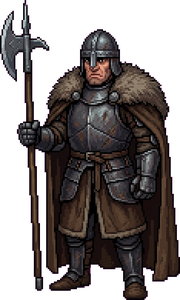
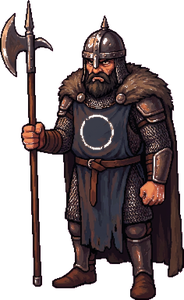
Deel 2: MUISSTIL sleutel-minigame, nieuwe gevaarlijke wachter met baard, groter Finn, mooi onzichtbaarheids-teken
De kerker — nieuw slotstuk in 3 stappen:
1. Kerkerslot (vader fluistert de tekens) opent nu alleen de GRENDELS (boltsOpen)
2. NIEUW: 'Muisstil — pak de sleutel': de celsleutel glinstert op de wachttafel;
   houd vast om hem naar je toe te trekken, maar dat schuurt! Alleen als de wachter
   NEURIET (♪) hoort hij niets; stopt het deuntje -> loslaten, anders schiet de
   geluidsmeter vol en schuift de sleutel terug (onzichtbaar = onhoorbaar is hij niet!)
3. Gebruik de ijzeren celsleutel op de deur -> vader vrij -> einde Deel 2

Engine: nieuw keyPuzzle-type op het dial-scherm (houd-vast-mechaniek met pointer-events,
neurie-cyclus, geluidsmeter, sleutel die over de tafel glijdt), dispatch + quests
(q_key/q_cellopen) + sleutel-glinstering op de tafel (bookSparkle-fx hergebruikt).

Verder:
- Nieuwe wachter-sprite: zelfde pixel-stijl als de poortwachter-referentie maar
  gevaarlijker, met volle donkere baard (Higgsfield; kleurafstand-chroma-fix)
- Finn groter in de kerker (depth 1.00/1.40)
- Nieuw onzichtbaarheidsspreuk-teken: donker zegel met half-vervagende kap-figuur
  die in sparkles oplost (item-invisspell.png) + item-cellkey icoon
- Cache deel2 v146

diff --git a/games/ravenholt-deel2/js/data.js b/games/ravenholt-deel2/js/data.js
@@ -14,7 +14,7 @@ const GAME = {
   title:      { nl: 'Fluisteringen van Ravenholt — Deel 2', en: 'Whispers of Ravenholt — Part 2' },
   titleLines: { nl: ['Fluisteringen', 'van Ravenholt', '· Deel 2 ·'], en: ['Whispers of', 'Ravenholt', '· Part 2 ·'] },
   startScene: 'courtyard',
-  assetVer: '145',
+  assetVer: '146',
 
   /* Finn — vaste figuur: roodharige jongen, blauwe kapmantel, leren tas, houten staf.
      idle = hero, lopen = 4-frame loopsheet (heroWalkSheet), zwaaien = heroWave.
@@ -136,6 +136,8 @@ const GAME = {
     q_altar:    { nl: 'Je zag het hemelzegel! Draai de drie schijven van het sterren-altaar precies zoals op het zegel (zon ☉ bovenaan) en trek aan de hendel — dan opent de geheime deur én wacht de onzichtbaarheidsspreuk', en: 'You saw the celestial seal! Turn the three discs of the star altar exactly as on the seal (sun ☉ at the top) and pull the lever — the secret door opens and the invisibility spell awaits' },
     q_dungeon:  { nl: 'De geheime deur staat open! Daal de trap af naar de kerker. Een wachter verspert de weg naar de gevangene — tik de onzichtbaarheidsspreuk aan om ongezien langs hem te sluipen', en: 'The secret door is open! Descend the stair to the dungeon. A guard blocks the way to the prisoner — tap the invisibility spell to slip past him unseen' },
     q_freefather:{ nl: 'Je bent onzichtbaar langs de wachter! Praat met de gevangene bij de tralies — hij fluistert de volgorde van het kerkerslot: zon, maan, ster... en het teken van zijn staf', en: 'You slipped past the guard unseen! Talk to the prisoner at the bars — he whispers the order of the dungeon lock: sun, moon, star... and the sign of his staff' },
+    q_key:      { nl: 'De grendels zijn open! Pak nu MUISSTIL de sleutel van de wachttafel: trek alleen terwijl de wachter neuriet (♪) — hij kan je nog steeds horen', en: 'The bolts are open! Now take the key from the guard’s table SILENTLY: pull only while the guard hums (♪) — he can still hear you' },
+    q_cellopen: { nl: 'Je hebt de celsleutel! Gebruik hem op de celdeur en bevrijd je vader', en: 'You have the cell key! Use it on the cell door and free your father' },
     q_done:     { nl: 'De prinses herkende het wapen van het medaillon... (wordt vervolgd in Deel 2)', en: 'The princess recognised the medallion’s crest... (to be continued in Part 2)' },
     q_fountain: { nl: 'Onderzoek waarom de fontein leegloopt', en: 'Investigate why the fountain is running dry' },
     q_mill:     { nl: 'Bekijk de oude molen aan de rand van het plein', en: 'Inspect the old mill at the edge of the square' },
@@ -168,6 +170,8 @@ const GAME = {
              look: { nl: 'Een fijne gouden ketting met een blauwe edelsteen, opgevist uit de oude put. Hij hoort bij de prinses — het was van haar moeder.', en: 'A fine gold necklace with a blue gem, fished from the old well. It belongs to the princess — it was her mother’s.' } },
     key: { name: { nl: 'Sleutel van de Geheime Poort', en: 'Secret Gate Key' }, icon: '🗝', img: 'assets/art/item-key.png', sparkle: true,
              look: { nl: 'Een zware, oude sleutel die je van de prinses kreeg. Hij past op het slot onder de leeuwenkop van de fontein — de geheime poort.', en: 'A heavy old key the princess gave you. It fits the lock beneath the fountain’s lion head — the secret gate.' } },
+    cellkey: { name: { nl: 'IJzeren Celsleutel', en: 'Iron Cell Key' }, icon: '🗝', img: 'assets/art/item-cellkey.png', sparkle: true,
+             look: { nl: 'De zware ijzeren sleutel van de wachter — muisstil van de tafel gegrist. Hij past op het sleutelslot van de celdeur.', en: 'The guard’s heavy iron key — snatched from the table without a sound. It fits the keyhole of the cell door.' } },
     charcoal: { name: { nl: 'Houtskool', en: 'Charcoal' }, icon: '⬛', img: 'assets/art/item-coal.png',
              look: { nl: 'Een handvol zwarte houtskool uit de vuurkorf naast het smidsbeeld in de slottuin. Precies wat een smid nodig heeft om zijn vuur weer aan te wakkeren.', en: 'A handful of black charcoal from the fire basket beside the smith statue in the castle garden. Just what a smith needs to fire up his forge again.' } },
     nut: { name: { nl: 'Pindanoot', en: 'Peanut' }, icon: '🥜', img: 'assets/art/item-nut.png',
@@ -255,7 +259,9 @@ const GAME = {
   ],
 
   questRules: [
-    { when: { flag: 'guardPassed', notFlag: 'fatherFreed' },             quest: 'q_freefather' },    // onzichtbaar langs de wachter -> open het kerkerslot bij de cel
+    { when: { has: 'cellkey', notFlag: 'fatherFreed' },                  quest: 'q_cellopen' },      // sleutel binnen -> open de celdeur
+    { when: { flag: 'boltsOpen', notFlag: 'gotCellKey' },                quest: 'q_key' },           // grendels open -> pak muisstil de sleutel van de tafel
+    { when: { flag: 'guardPassed', notFlag: 'boltsOpen' },               quest: 'q_freefather' },    // onzichtbaar langs de wachter -> open het kerkerslot bij de cel
     { when: { flag: 'altarSolved', notFlag: 'fatherFreed' },             quest: 'q_dungeon' },       // geheime deur open -> daal af in de kerker en word onzichtbaar langs de wachter
     { when: { flag: 'sawSigns', notFlag: 'altarSolved' },                quest: 'q_altar' },         // zegel gezien -> draai de schijven van het altaar + hendel
     { when: { flag: 'eclipseActive', notFlag: 'sawSigns' },              quest: 'q_readbook' },      // eclips actief -> bekijk het hemelzegel boven het boek
@@ -976,7 +982,7 @@ const GAME = {
       },
       playerStart: { x: 100, y: 246 },
       spawnFrom: { library: { x: 100, y: 246 } },
-      depth: { far: 250, near: 314, sFar: 0.90, sNear: 1.22 },
+      depth: { far: 250, near: 314, sFar: 1.00, sNear: 1.40 },   // Finn wat groter in de kerker
       walkable: [
         { x: 36, y: 246, w: 444, h: 66 }                 // de natte kerkervloer, van de trap links tot vlak voor de cel
       ],
@@ -986,7 +992,9 @@ const GAME = {
         { x: 288, y: 236, w: 68, h: 76, notFlag: 'guardPassed' }   // de wachter verspert de doorgang — tot je onzichtbaar bent (dan loop je er dwars langs)
       ],
       overlays: [],
-      fx: {},
+      fx: {
+        bookSparkle: { x: 230, y: 206, r: 13, doneFlag: 'gotCellKey' }   // de sleutel glinstert op de wachttafel tot je hem hebt
+      },
       npcs: [
         { id: 'guard', sprite: 'dungeonGuard', x: 322, y: 246, scale: 1.22, flip: true, sway: 0.015, filter: 'brightness(0.82) saturate(0.96)' }   // de wachter vóór de cel, kijkt naar RECHTS; hij blijft gewoon staan — onzichtbaar ziet hij je alleen niet
         // Finn's vader zit ín de achtergrond, écht achter de tralies (gevangenis-ravenholt-1)
@@ -1007,7 +1015,7 @@ const GAME = {
           rect: { x: 284, y: 118, w: 88, h: 132 },
           walkTo: { x: 250, y: 262 },
           look: (state) => state.flags.guardPassed
-            ? { nl: 'De wachter tuurt met gefronste wenkbrauwen de kerker rond — maar jou ziet hij niet. Sluip snel naar de cel!', en: 'The guard peers around the dungeon with a frown — but he cannot see you. Slip to the cell, quick!' }
+            ? { nl: 'De wachter tuurt met gefronste wenkbrauwen de kerker rond — jou ziet hij niet. Maar pas op: HOREN kan hij je nog wél... Maak geen geluid.', en: 'The guard peers around the dungeon with a frown — he cannot see you. But beware: he can still HEAR you... Make no sound.' }
             : { nl: 'Een kolossale wachter met een hellebaard verspert de weg naar de cel. “Niemand komt bij de gevangene — niemand die ik zíe, tenminste.” Zolang hij je ziet, kom je er nooit langs... Kon je maar onzichtbaar worden. (Tik de onzichtbaarheidsspreuk aan in je tas.)', en: 'A colossal guard with a halberd blocks the way to the cell. “No one reaches the prisoner — no one I can SEE, at least.” While he can see you, you will never get past... If only you could turn invisible. (Tap the invisibility spell in your bag.)' },
           castWith: {
             item: 'invisspell',
@@ -1017,13 +1025,45 @@ const GAME = {
           }
         },
         {
+          id: 'keyTable',
+          name: { nl: 'De Sleutel op de Tafel', en: 'The Key on the Table' },
+          rect: { x: 178, y: 186, w: 104, h: 48 },
+          walkTo: { x: 230, y: 258 },
+          look: (state) => state.flags.gotCellKey
+            ? { nl: 'De tafel is leeg — de ijzeren celsleutel zit veilig in je tas.', en: 'The table is bare — the iron cell key sits safely in your bag.' }
+            : { nl: 'Op de wachttafel, naast de kaars en de fles, glinstert een zware ijzeren sleutel. Dé sleutel van de cel! Maar het hout kraakt bij elk geluidje...', en: 'On the guard’s table, beside the candle and the bottle, gleams a heavy iron key. THE key to the cell! But the wood creaks at every little sound...' },
+          keyPuzzle: {
+            requiresFlag: 'guardPassed',
+            blockedText: { nl: 'De wachter staat er met zijn neus bovenop — zolang hij je kan zien, kun je de sleutel onmogelijk ongemerkt pakken. Kon je maar onzichtbaar worden...', en: 'The guard stands right over it — while he can see you, you could never take the key unnoticed. If only you could turn invisible...' },
+            title: { nl: 'Muisstil — pak de sleutel', en: 'Silent as a Mouse — take the key' },
+            hint: { nl: 'HOUD de knop (of het beeld) VAST om de sleutel langzaam naar je toe te trekken — dat schuurt over het hout! Trek alléén terwijl de wachter NEURIET (♪). Stopt het deuntje? LAAT LOS, anders schiet de geluidsmeter vol!', en: 'HOLD the button (or the picture) to slowly pull the key toward you — it scrapes on the wood! Pull only while the guard is HUMMING (♪). When the tune stops, LET GO, or the noise meter fills up!' },
+            setFlag: 'gotCellKey',
+            give: 'cellkey',
+            failText: { nl: '“Wat was dat?!” De wachter draait met een ruk zijn hoofd — je laat de sleutel los en houdt je muisstil. De sleutel schuift een stuk terug...', en: '“What was that?!” The guard snaps his head around — you release the key and freeze. The key slides back a way...' },
+            solvedText: { nl: 'De sleutel glijdt geluidloos over de tafelrand, recht in je onzichtbare hand. De wachter neuriet vrolijk verder — hij heeft níets gemerkt. Nu de celdeur!', en: 'The key slides soundlessly over the table edge, straight into your invisible hand. The guard hums merrily on — he noticed nothing. Now for the cell door!' },
+            doneText: { nl: 'De ijzeren celsleutel zit al in je tas.', en: 'The iron cell key is already in your bag.' }
+          }
+        },
+        {
           id: 'father',
           name: { nl: 'De Gevangene', en: 'The Prisoner' },
           rect: { x: 408, y: 110, w: 100, h: 130 },
           walkTo: { x: 408, y: 268 },
           look: (state) => state.flags.fatherFreed
             ? { nl: 'De celdeur staat open. Je vader houdt je hand stevig vast — jullie zijn weer samen.', en: 'The cell door stands open. Your father holds your hand tight — you are together again.' }
+            : state.flags.boltsOpen
+            ? { nl: 'De grendels staan open, maar het sleutelslot houdt de deur dicht. Vader knikt naar de wachttafel: “De sleutel, jongen — muisstil...”', en: 'The bolts stand open, but the keyhole holds the door shut. Father nods at the guard’s table: “The key, my boy — quiet as a mouse...”' }
             : { nl: 'Onzichtbaar sluip je naar de tralies. De magere man kijkt op — vermoeide ogen, rood-bruin haar net als dat van jou. “...Finn?” fluistert hij. “Mijn jongen! Snel — het slot heeft vier tekens. Luister goed: éérst de ZON... dan de MAAN... dan de STER... en als laatste het teken van mijn oude staf: Ψ.”', en: 'Invisible, you creep to the bars. The thin man looks up — tired eyes, red-brown hair just like yours. “...Finn?” he whispers. “My boy! Quick — the lock has four signs. Listen well: FIRST the SUN... then the MOON... then the STAR... and last the sign of my old staff: Ψ.”' },
+          use: {
+            cellkey: {
+              requiresFlag: 'boltsOpen',
+              requiresText: { nl: 'Je houdt de sleutel al klaar, maar vier zware grendels houden de deur nog dicht. Eerst de vier tekens van het kerkerslot — vraag het je vader.', en: 'You hold the key ready, but four heavy bolts still shut the door. First the four signs of the dungeon lock — ask your father.' },
+              consume: 'cellkey',
+              setFlag: 'fatherFreed',
+              win: true,
+              text: { nl: 'De ijzeren sleutel glijdt in het slot... KLIK. De zware celdeur zwaait piepend open en je vader stapt naar buiten. Hij tilt je op in een omhelzing die alles goedmaakt. “Mijn jongen... je hebt me gevonden én bevrijd.” Samen sluipen jullie muisstil langs de neuriënde wachter, de trap op, richting het daglicht... (wordt vervolgd in Deel 3)', en: 'The iron key slides into the lock... CLICK. The heavy cell door creaks open and your father steps out. He lifts you into a hug that makes up for everything. “My boy... you found me AND freed me.” Together you slip silently past the humming guard, up the stairs, toward the daylight... (to be continued in Part 3)' }
+            }
+          },
           symbolPuzzle: {
             requiresFlag: 'guardPassed',
             blockedText: { nl: 'Je wilt naar de tralies rennen, maar de reusachtige wachter stapt meteen vóór de cel. “Terug jij!” Zolang hij je ziet, kom je hier niet langs... Kon je maar onzichtbaar worden. (Tik de onzichtbaarheidsspreuk aan in je tas.)', en: 'You start toward the bars, but the huge guard instantly steps in front of the cell. “Back, you!” While he can see you, there is no getting past... If only you could turn invisible. (Tap the invisibility spell in your bag.)' },
@@ -1038,10 +1078,9 @@ const GAME = {
             ],
             sequence: ['sun', 'moon', 'star', 'psi'],
             resetText: { nl: 'Het slot klikt boos en de grendels schieten terug. Verkeerde volgorde — luister naar vader: zon, maan, ster, en dan Ψ.', en: 'The lock clicks angrily and the bolts snap back. Wrong order — listen to father: sun, moon, star, then Ψ.' },
-            setFlag: 'fatherFreed',
-            win: true,
-            solvedText: { nl: 'KLIK — KLIK — KLIK — KLIK! De vier grendels schuiven open en de zware celdeur zwaait piepend los. Je vader stapt naar buiten en tilt je op in een omhelzing die alles goedmaakt. “Mijn jongen... je hebt me gevonden én bevrijd.” Samen sluipen jullie langs de slapende wachter, de trap op, richting het daglicht... (wordt vervolgd in Deel 3)', en: 'CLICK — CLICK — CLICK — CLICK! The four bolts slide open and the heavy cell door creaks loose. Your father steps out and lifts you into a hug that makes up for everything. “My boy... you found me AND freed me.” Together you slip past the drowsy guard, up the stairs, toward the daylight... (to be continued in Part 3)' },
-            doneText: { nl: 'De cel staat open; jullie zijn herenigd.', en: 'The cell stands open; you are reunited.' }
+            setFlag: 'boltsOpen',
+            solvedText: { nl: 'KLIK — KLIK — KLIK — KLIK! De vier grendels schuiven open... maar de deur geeft nog niet mee. Onderaan zit een SLEUTELSLOT. Vader fluistert: “De wachter legt zijn sleutel altijd op de tafel — maar pas op, jongen: onzichtbaar of niet, hij kan je nog steeds HOREN...”', en: 'CLICK — CLICK — CLICK — CLICK! The four bolts slide open... but the door will not give yet. At the bottom sits a KEYHOLE. Father whispers: “The guard always leaves his key on the table — but beware, my boy: invisible or not, he can still HEAR you...”' },
+            doneText: { nl: 'De grendels staan open; alleen het sleutelslot houdt de deur nog dicht. De sleutel ligt op de wachttafel.', en: 'The bolts stand open; only the keyhole still holds the door. The key lies on the guard’s table.' }
           }
         }
       ]

diff --git a/games/ravenholt-deel2/js/engine.js b/games/ravenholt-deel2/js/engine.js
@@ -4016,7 +4016,12 @@
     sfx('tap');
     if (!wAnim) wLoop();
   }
-  function dialClose() { if (elDial) elDial.hidden = true; dialHs = null; if (wAnim) { cancelAnimationFrame(wAnim); wAnim = null; } }
+  function dialClose() {
+    if (elDial) elDial.hidden = true;
+    dialHs = null;
+    if (wAnim) { cancelAnimationFrame(wAnim); wAnim = null; }
+    if (typeof keyStop === 'function') keyStop();      // ook de sleutel-puzzel netjes sluiten
+  }
   function winchLower() {
     if (!dialHs || wSolved) return;
     const pz = dialHs.dialPuzzle, DEP = pz.depth || W_DEPTH;
@@ -4212,6 +4217,133 @@
     if (dr) dr.addEventListener('click', winchLower);
     if (dx) dx.addEventListener('click', dialClose);
     elDial.addEventListener('click', (e) => { if (e.target === elDial) dialClose(); });
+  }
+
+  /* ---------- MUISSTIL: pak de sleutel zonder geluid te maken ----------
+     De sleutel ligt op de wachttafel. Houd de knop (of het beeld) ingedrukt om hem
+     langzaam naar je toe te trekken — maar dat schuurt over het hout! Alleen als de
+     wachter NEURIET (♪) hoort hij het niet. Stopt het deuntje: loslaten, anders
+     schiet de geluidsmeter vol en schuift de sleutel terug. */
+  let keyHs = null, keyProg = 0, keyNoise = 0, keyHold = false, keyAnim = null, keyLastT = 0, keyFailT = 0, keySolvedK = false;
+  function keyHumOn(now) {                             // onregelmatig neuriën: twee sinussen door elkaar
+    return (Math.sin(now / 900) + Math.sin(now / 1370)) > 0.25;
+  }
+  function openKeyPuzzle(hs) {
+    const pz = hs.keyPuzzle;
+    if (state.flags[pz.setFlag]) { say(pz.doneText || lookText(hs), hsSpeaker(hs)); return; }
+    keyHs = hs; keyProg = 0; keyNoise = 0; keyHold = false; keySolvedK = false; keyLastT = performance.now(); keyFailT = 0;
+    if (elDialTitle)  elDialTitle.textContent  = L(pz.title);
+    if (elDialHint)   elDialHint.textContent   = L(pz.hint);
+    if (elDialStatus) elDialStatus.textContent = '';
+    const bl = document.getElementById('dial-left'), br = document.getElementById('dial-right');
+    if (bl) { bl.hidden = false; bl.textContent = lang === 'nl' ? '🤫 Trek voorzichtig (houd vast)' : '🤫 Pull gently (hold)'; bl.classList.remove('dial-go', 'dial-stop'); }
+    if (br) br.hidden = true;
+    if (elDial) elDial.hidden = false;
+    sfx('tap');
+    if (!keyAnim) keyLoop();
+  }
+  function keyStop() { keyHs = null; keyHold = false; if (keyAnim) { cancelAnimationFrame(keyAnim); keyAnim = null; } const br = document.getElementById('dial-right'); if (br) br.hidden = false; }
+  function keyLoop() {
+    if (!keyHs || !elDial || elDial.hidden) { keyAnim = null; return; }
+    const now = performance.now();
+    const dt = Math.min(0.05, (now - keyLastT) / 1000); keyLastT = now;
+    const pz = keyHs.keyPuzzle;
+    if (!keySolvedK) {
+      const hum = keyHumOn(now);
+      if (keyHold) {
+        keyProg = Math.min(100, keyProg + 15 * dt);
+        keyNoise = Math.min(100, keyNoise + (hum ? 5 : 46) * dt);
+      } else {
+        keyNoise = Math.max(0, keyNoise - 26 * dt);
+      }
+      if (keyNoise >= 100) {                           // KRRRTS — de wachter hoort iets!
+        keyFailT = now; keyHold = false;
+        keyProg = Math.max(0, keyProg - 40); keyNoise = 45;
+        sfx('error');
+        if (elDialStatus) elDialStatus.textContent = pz.failText ? L(pz.failText) : (lang === 'nl' ? '“Wat was dat?!” De wachter draait zijn hoofd — je laat de sleutel los en wacht doodstil...' : '“What was that?!” The guard turns his head — you release the key and freeze...');
+      }
+      if (keyProg >= 100) {                            // de sleutel glijdt geluidloos van de rand in je hand
+        keySolvedK = true;
+        state.flags[pz.setFlag] = true;
+        if (pz.give) addItem(pz.give);
+        sfx('combine');
+        const h = keyHs;
+        if (elDialStatus) elDialStatus.textContent = lang === 'nl' ? 'Hebbes — muisstil!' : 'Got it — silent as a mouse!';
+        setTimeout(() => { dialClose(); if (pz.solvedText) say(pz.solvedText, hsSpeaker(h)); updateQuest(); }, 800);
+      }
+    }
+    drawKeyPuzzle(now);
+    keyAnim = requestAnimationFrame(keyLoop);
+  }
+  function drawKeyPuzzle(now) {
+    if (!dctx || !keyHs) return;
+    const cv = elDialCanvas, x = dctx, W = cv.width, H = cv.height;
+    const hum = keyHumOn(now);
+    x.clearRect(0, 0, W, H);
+    /* donkere kerkermuur + tafelblad */
+    let g = x.createLinearGradient(0, 0, 0, H);
+    g.addColorStop(0, '#171310'); g.addColorStop(1, '#0d0a08');
+    x.fillStyle = g; x.fillRect(0, 0, W, H);
+    /* de neuriënde wachter bovenin */
+    x.textAlign = 'center'; x.textBaseline = 'middle';
+    x.font = '34px Georgia, serif';
+    x.fillText('💂', W / 2, 46);
+    if (hum) {                                        // ♪ = veilig trekken
+      const b = 0.55 + 0.45 * Math.sin(now / 180);
+      x.font = '20px Georgia, serif'; x.fillStyle = 'rgba(150,240,130,' + b.toFixed(2) + ')';
+      x.fillText('♪', W / 2 + 34, 34); x.fillText('♫', W / 2 + 52, 48);
+      x.font = 'bold 13px Georgia, serif'; x.fillStyle = '#bff5ad';
+      x.fillText(lang === 'nl' ? 'hij neuriet — trek nu!' : 'he hums — pull now!', W / 2, 76);
+    } else {
+      x.font = 'bold 13px Georgia, serif'; x.fillStyle = '#ffb3a6';
+      x.fillText(lang === 'nl' ? 'stil... niet bewegen!' : 'quiet... don’t move!', W / 2, 76);
+    }
+    /* het tafelblad met de glijdende sleutel */
+    const ty = H * 0.52;
+    x.fillStyle = '#5a4326'; x.fillRect(24, ty, W - 48, 34);
+    x.fillStyle = '#3c2c18'; x.fillRect(24, ty + 34, W - 48, 8);
+    x.strokeStyle = 'rgba(0,0,0,.4)';
+    for (let i = 0; i < 5; i++) { x.beginPath(); x.moveTo(28, ty + 6 + i * 6); x.lineTo(W - 28, ty + 6 + i * 6); x.stroke(); }
+    const kx = 44 + (W - 118) * (keyProg / 100);
+    x.save();
+    x.translate(kx, ty + 16);
+    x.shadowColor = 'rgba(255,225,140,.85)'; x.shadowBlur = 10;
+    x.font = '26px Georgia, serif'; x.fillStyle = '#ffd36b';
+    x.fillText('🗝', 0, 0);
+    x.restore();
+    /* doel: de rand van de tafel (jouw hand) */
+    x.font = '22px Georgia, serif'; x.fillText('🤚', W - 46, ty + 14);
+    /* geluidsmeter onderin */
+    const mx = 34, mw = W - 68, my = H - 52;
+    x.fillStyle = 'rgba(0,0,0,.55)'; x.fillRect(mx - 2, my - 2, mw + 4, 18);
+    const zones = [[0, 0.62, 'rgba(126,230,110,.25)'], [0.62, 0.85, 'rgba(255,210,110,.25)'], [0.85, 1, 'rgba(255,90,70,.3)']];
+    for (const [a, b2, col] of zones) { x.fillStyle = col; x.fillRect(mx + mw * a, my, mw * (b2 - a), 14); }
+    const nf = keyNoise / 100;
+    x.fillStyle = nf > 0.85 ? '#ff6a55' : nf > 0.62 ? '#ffd36b' : '#8fe07e';
+    x.fillRect(mx, my, mw * nf, 14);
+    x.strokeStyle = '#8a6a3a'; x.lineWidth = 2; x.strokeRect(mx - 2, my - 2, mw + 4, 18);
+    x.font = 'bold 11px Georgia, serif'; x.fillStyle = '#e7cf86';
+    x.fillText(lang === 'nl' ? 'GELUID' : 'NOISE', W / 2, my - 10);
+    /* rode flits bij een misser */
+    const slip = Math.max(0, 1 - (now - keyFailT) / 600);
+    if (keyFailT && slip > 0) { x.fillStyle = 'rgba(255,70,50,' + (0.20 * slip).toFixed(3) + ')'; x.fillRect(0, 0, W, H); }
+  }
+  {
+    const bl = document.getElementById('dial-left');
+    const startHold = (e) => { if (keyHs && !keySolvedK) { keyHold = true; e.preventDefault(); } };
+    const endHold = () => { keyHold = false; };
+    if (bl) {
+      bl.addEventListener('pointerdown', startHold);
+      bl.addEventListener('pointerup', endHold);
+      bl.addEventListener('pointerleave', endHold);
+      bl.addEventListener('pointercancel', endHold);
+    }
+    if (elDialCanvas) {
+      elDialCanvas.addEventListener('pointerdown', startHold);
+      elDialCanvas.addEventListener('pointerup', endHold);
+      elDialCanvas.addEventListener('pointerleave', endHold);
+      elDialCanvas.addEventListener('pointercancel', endHold);
+    }
   }
 
   /* ---------- Sterren-altaar: drie schuifrijen ----------
@@ -5426,6 +5558,15 @@
         return;
       }
       openDiscPuzzle(hs);
+      return;
+    }
+    if (hs.keyPuzzle) {
+      if (hs.keyPuzzle.requiresFlag && !state.flags[hs.keyPuzzle.requiresFlag]) {
+        sfx('error');
+        say(hs.keyPuzzle.blockedText || lookText(hs), hsSpeaker(hs));
+        return;
+      }
+      openKeyPuzzle(hs);
       return;
     }
     if (hs.starPuzzle) {

diff --git a/games/ravenholt-deel2/index.html b/games/ravenholt-deel2/index.html
@@ -26,7 +26,7 @@
   <link rel="preconnect" href="https://fonts.googleapis.com">
   <link rel="preconnect" href="https://fonts.gstatic.com" crossorigin>
   <link href="https://fonts.googleapis.com/css2?family=Crimson+Pro:ital,wght@0,400;0,600;1,400&family=Pixelify+Sans:wght@400;600&display=swap" rel="stylesheet">
-  <link rel="stylesheet" href="css/style.css?v=145">
+  <link rel="stylesheet" href="css/style.css?v=146">
   <script type="application/ld+json">
   {
     "@context": "https://schema.org",
@@ -125,7 +125,7 @@
   </div>
 
   <div id="title-screen" class="overlay title">
-    <img class="title-bg" src="assets/art/title.jpg?v=145" alt="Whispers of Ravenholt" onerror="this.remove()">
+    <img class="title-bg" src="assets/art/title.jpg?v=146" alt="Whispers of Ravenholt" onerror="this.remove()">
     <div class="title-content">
       <h1 id="title-h1" hidden><span>Whispers of</span><br><span>Ravenholt</span></h1>
       <p id="title-sub" class="subtitle" hidden>Een point-and-click avontuur</p>
@@ -146,7 +146,7 @@
 
   <div id="win-screen" class="overlay" hidden>
     <div class="overlay-card panel">
-      <img class="win-banner" src="assets/art/win-deel2.jpg?v=145" alt="" onerror="this.remove()">
+      <img class="win-banner" src="assets/art/win-deel2.jpg?v=146" alt="" onerror="this.remove()">
       <h1 id="win-h1">Deel 1 uitgespeeld!</h1>
       <p class="intro" id="winText"></p>
       <button id="replayBtn" class="gold-btn">Opnieuw spelen</button>
@@ -296,10 +296,10 @@
     </div>
   </div>
 
-  <script src="js/sprites.js?v=145"></script>
-  <script src="js/scenes.js?v=145"></script>
-  <script src="js/data.js?v=145"></script>
-  <script src="js/engine.js?v=145"></script>
+  <script src="js/sprites.js?v=146"></script>
+  <script src="js/scenes.js?v=146"></script>
+  <script src="js/data.js?v=146"></script>
+  <script src="js/engine.js?v=146"></script>
   <script>
     if ('serviceWorker' in navigator) {
       window.addEventListener('load', () => {

diff --git a/games/ravenholt-deel2/sw.js b/games/ravenholt-deel2/sw.js
@@ -4,7 +4,7 @@
    offline beschikbaar wilt hebben (optioneel — niet-vermelde bestanden worden bij
    eerste gebruik alsnog gecachet). */
 
-const CACHE = 'ravenholt2-v145';
+const CACHE = 'ravenholt2-v146';
 
 const PRECACHE = [
   './',
